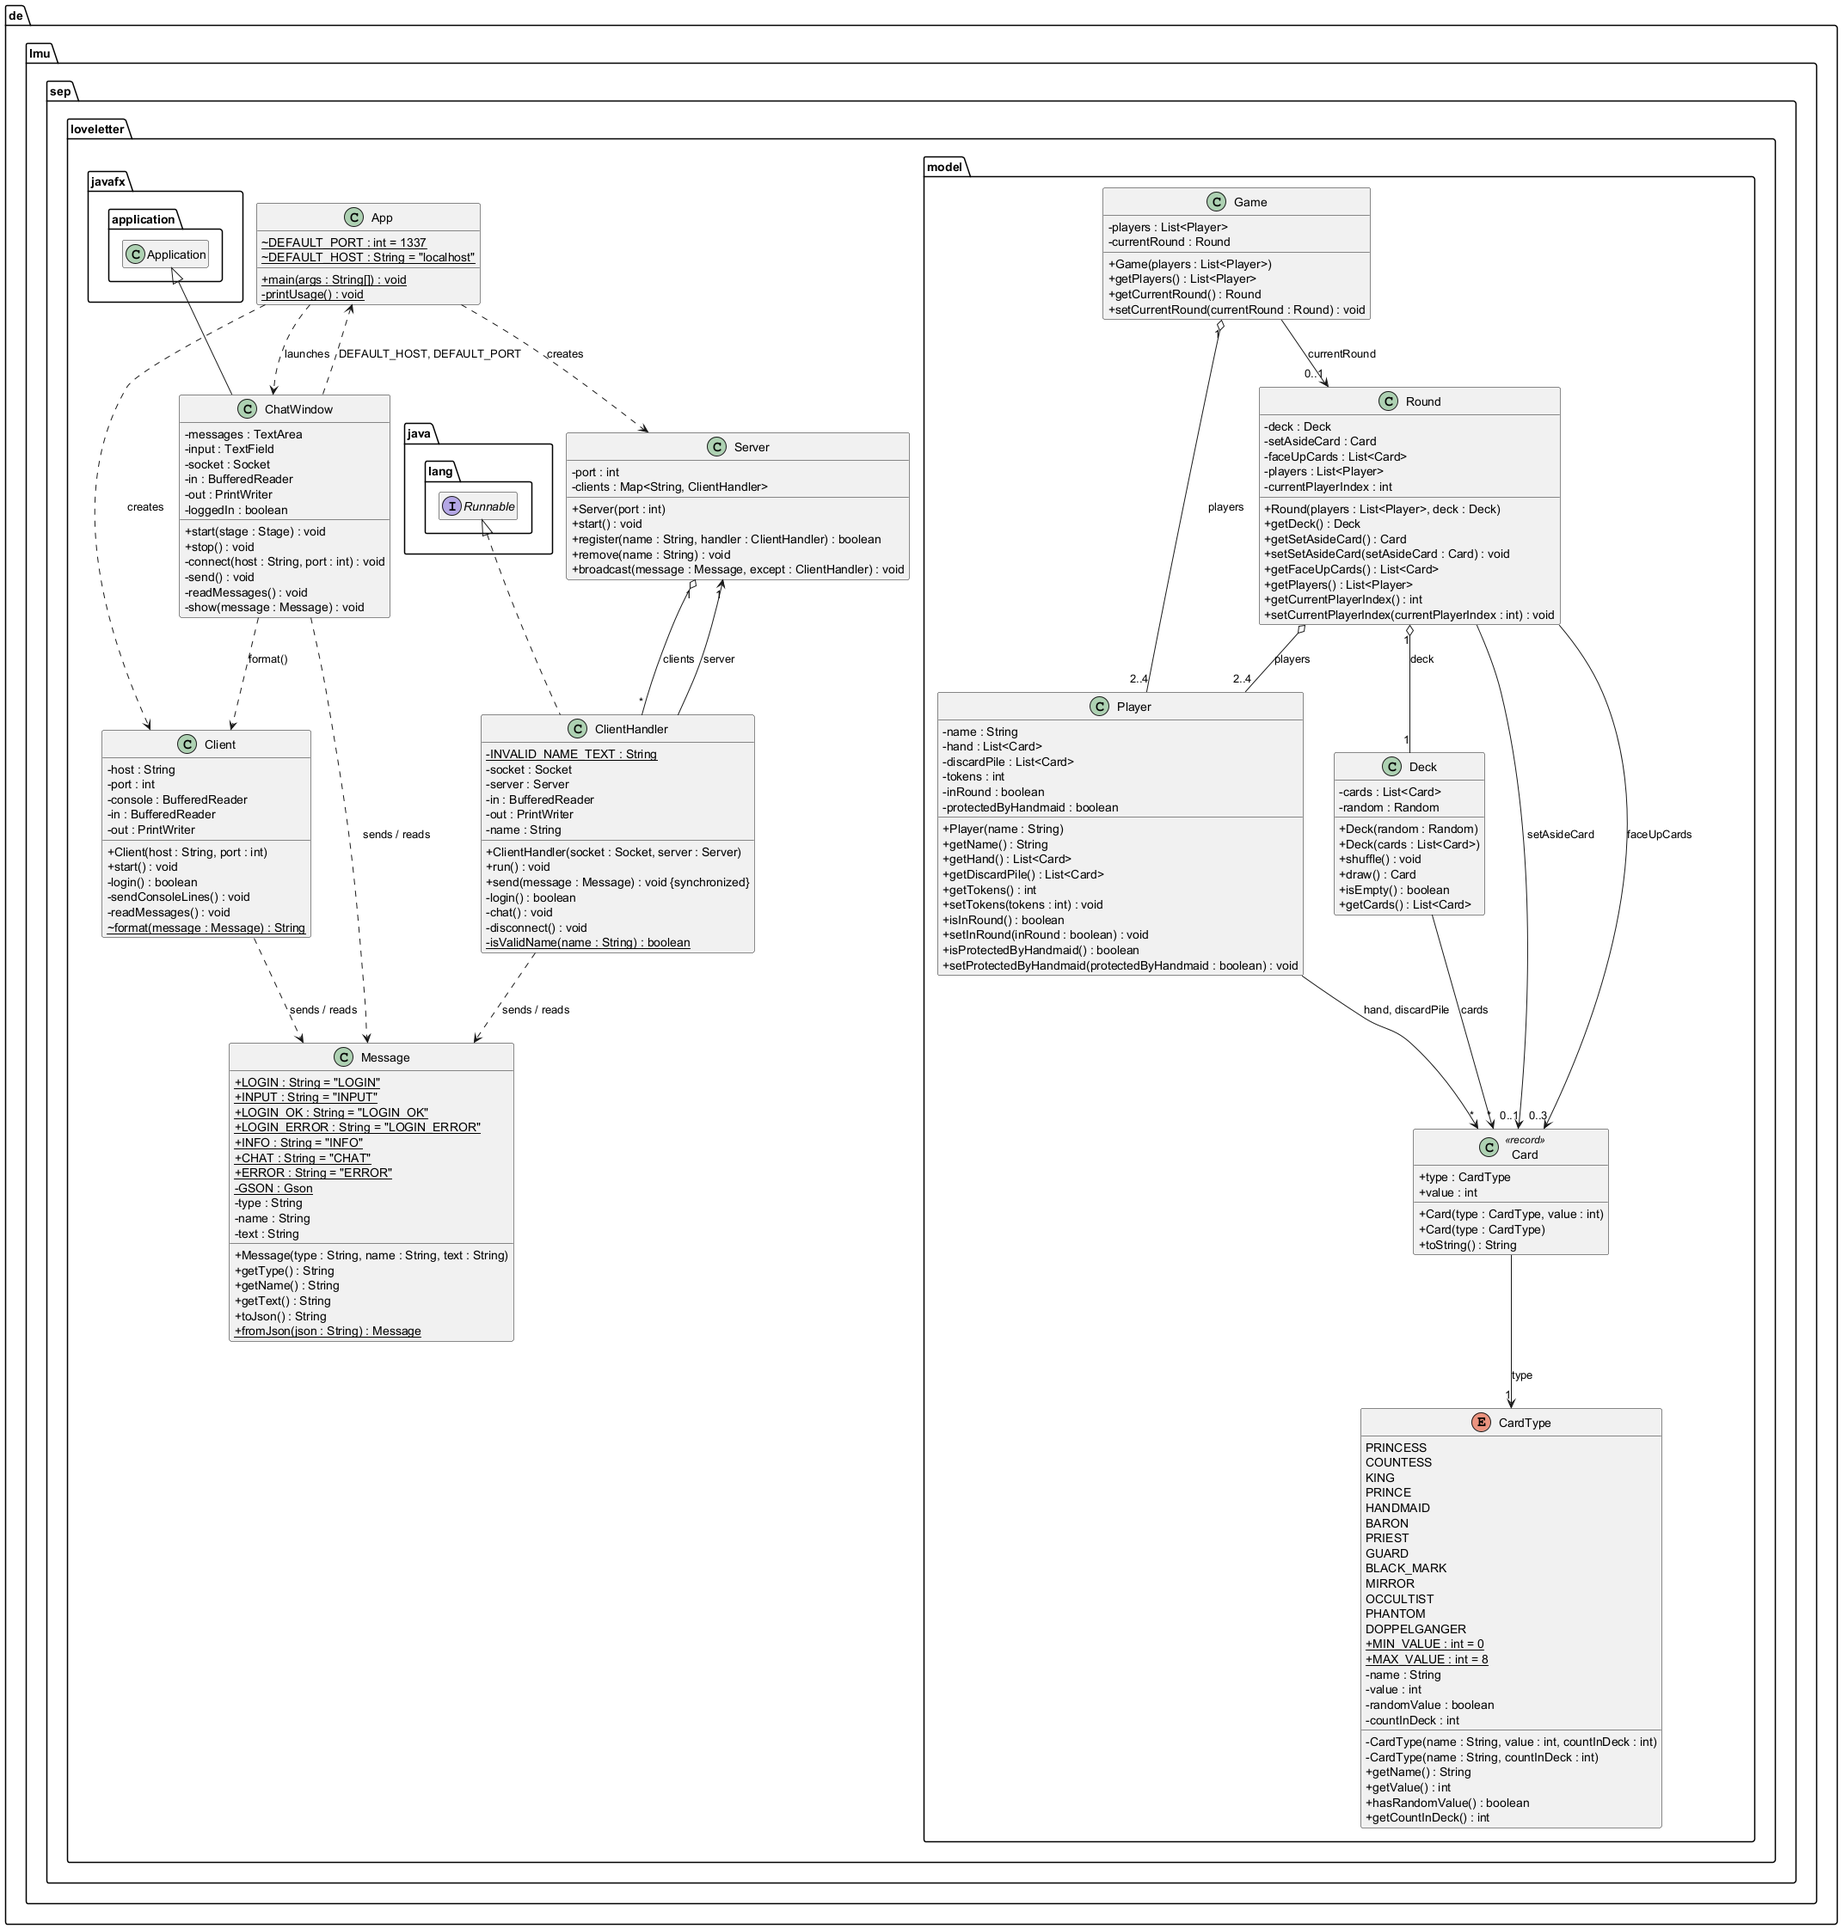
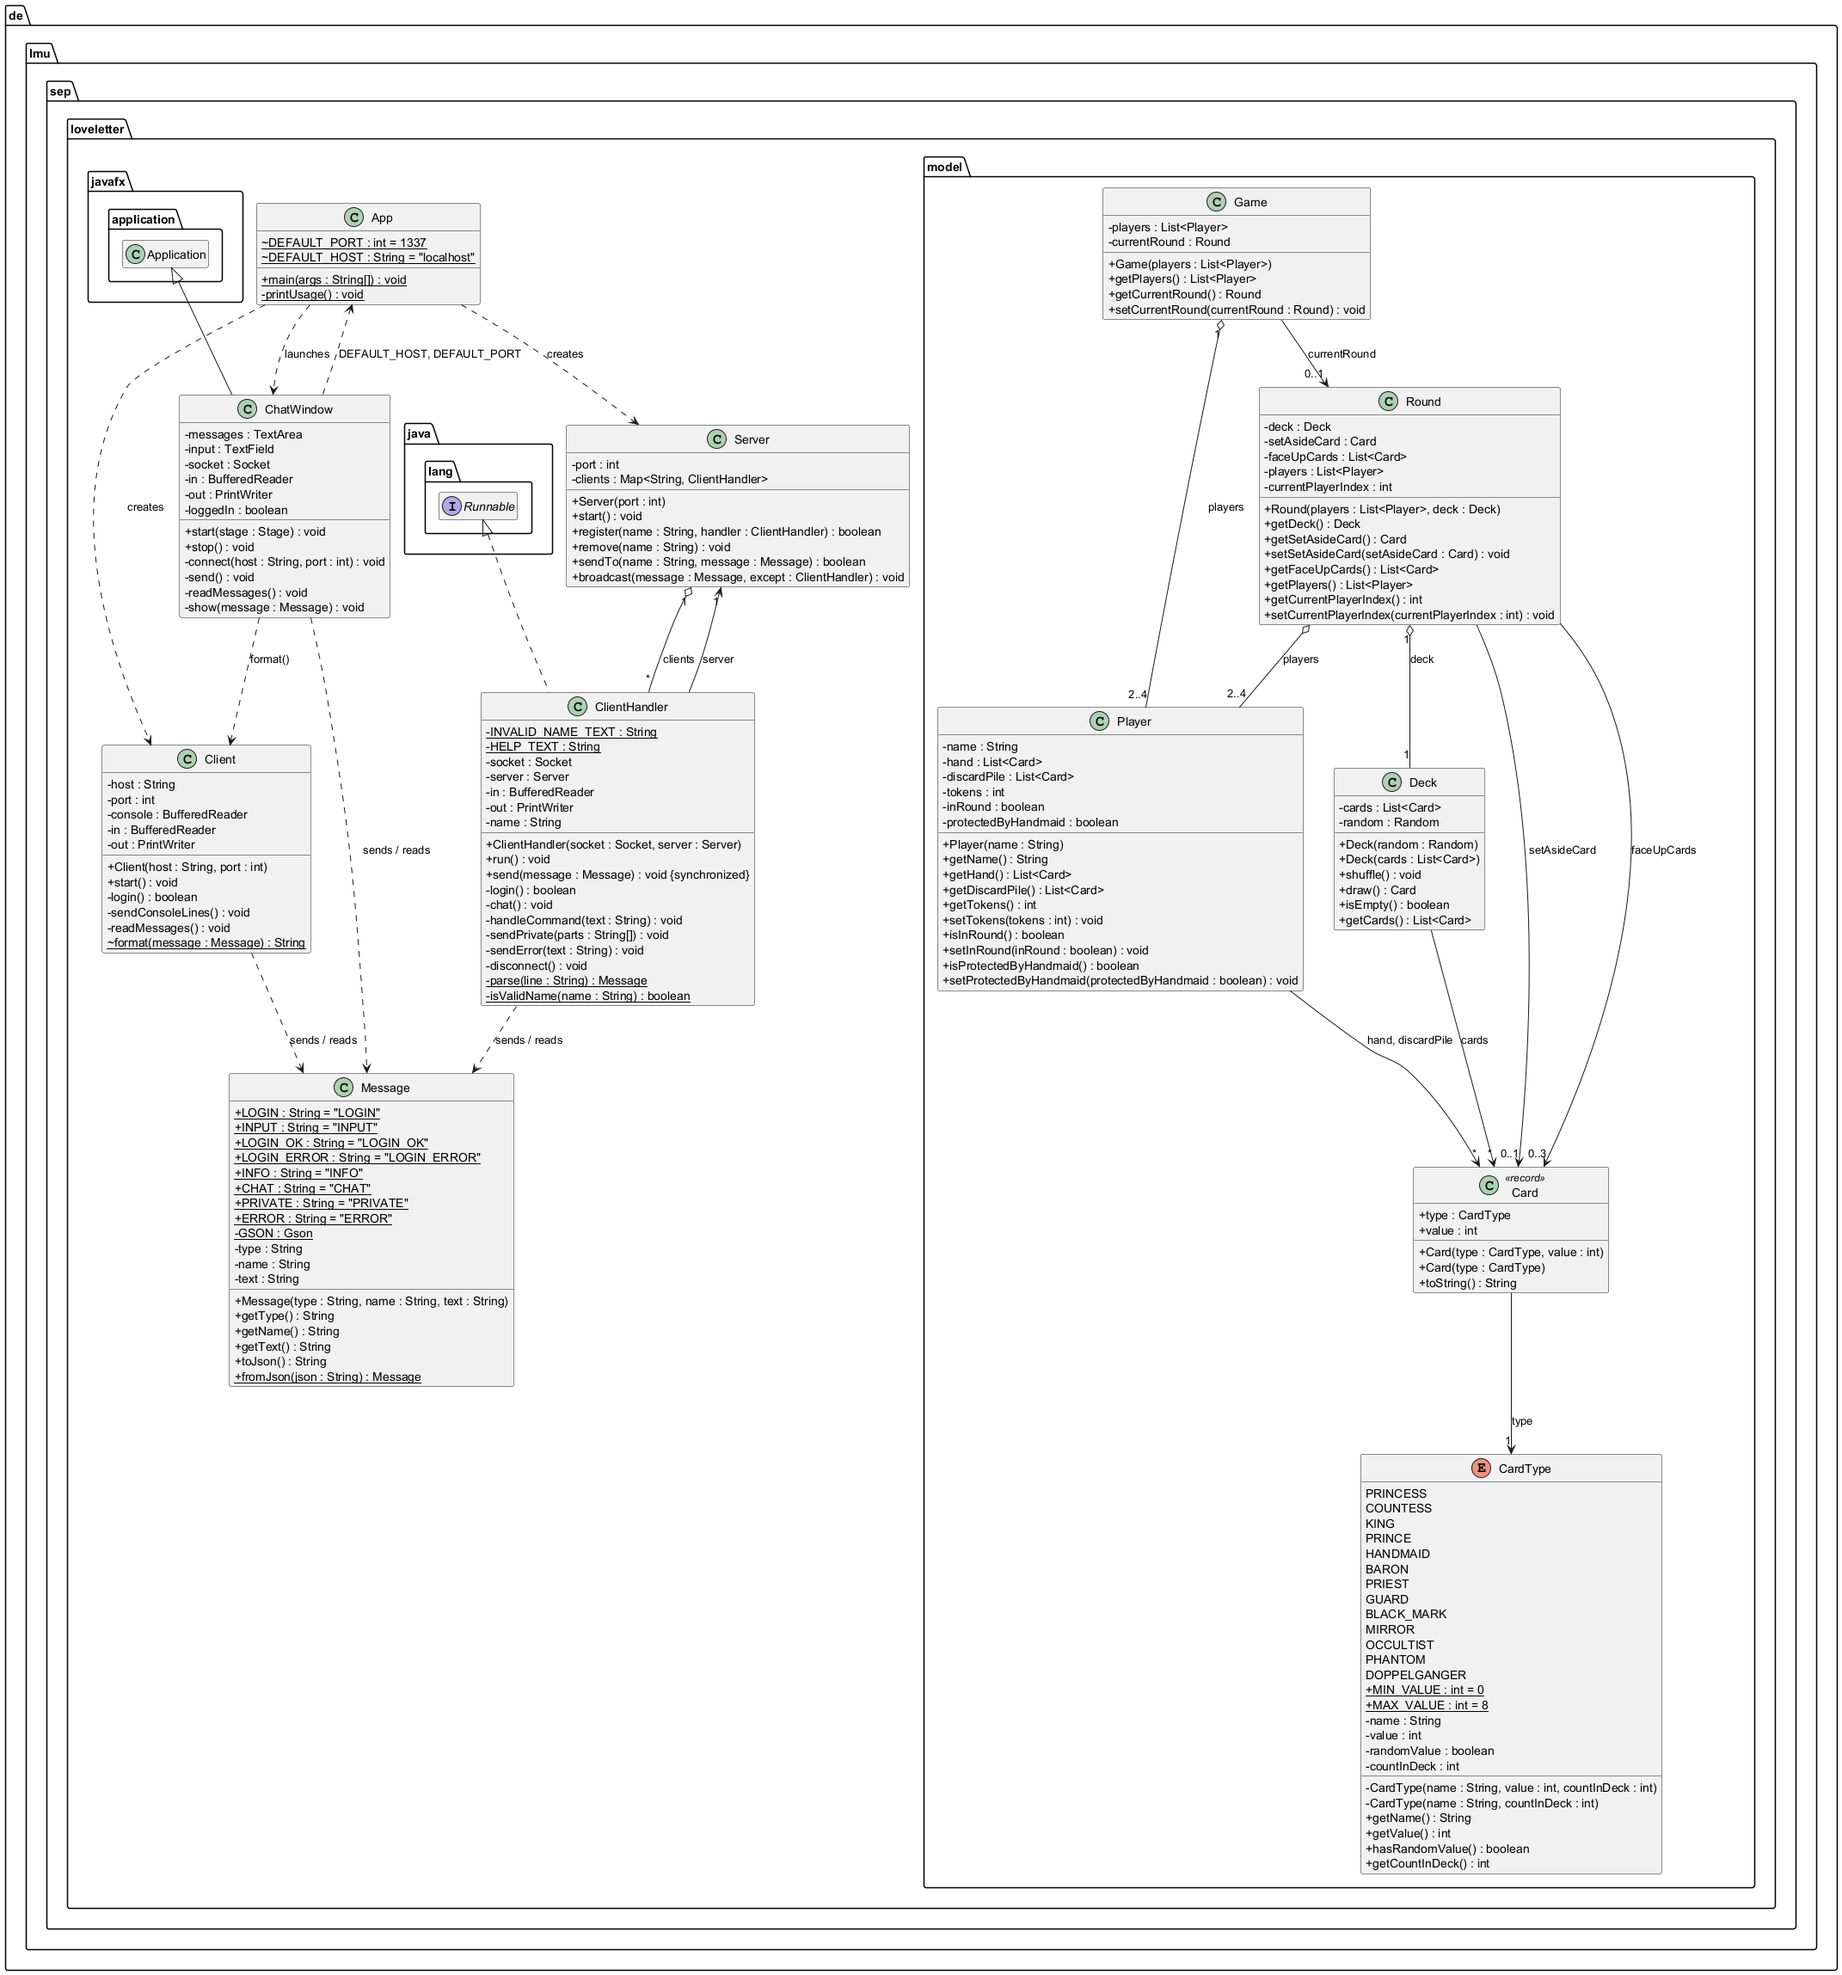
docs: document commands and PRIVATE message in README and UML

diff --git a/README.md b/README.md
@@ -48,8 +48,14 @@ java -jar target/loveletter-jar-with-dependencies.jar client
 java -jar target/loveletter-jar-with-dependencies.jar client localhost 4000
 ```
 
-The client asks for a name. After that, every line entered is sent to everyone.
-`bye` or `/bye` ends the connection.
+The client asks for a name. After that, every line entered is sent to everyone. Lines starting
+with `/` are commands:
+
+| Command              | Effect                                                     |
+|----------------------|------------------------------------------------------------|
+| `/msg <name> <text>` | private message: only `name` gets it, you get a confirmation |
+| `/help`              | lists all commands                                         |
+| `bye` or `/bye`      | ends the connection                                        |
 
 Chat window (JavaFX, default: `localhost`, port 1337):
 
@@ -135,9 +141,10 @@ fields that are not needed are omitted.
 | Client → Server | `INPUT`       | text       | one line entered                                |
 | Server → Client | `LOGIN_OK`    | –          | name accepted                                   |
 | Server → Client | `LOGIN_ERROR` | text       | name rejected, with reason                      |
-| Server → Client | `INFO`        | text       | `welcome name`, `name joined/left the room`     |
+| Server → Client | `INFO`        | text       | `welcome name`, `name joined/left the room`, `/help` list, confirmation of `/msg` |
 | Server → Client | `CHAT`        | name, text | chat line from `name`, to everyone incl. sender |
-| Server → Client | `ERROR`       | text       | unknown command, only to the sender             |
+| Server → Client | `PRIVATE`     | name, text | private message from `name`, only to the receiver |
+| Server → Client | `ERROR`       | text       | invalid input, unknown command or wrong arguments, only to the sender |
 
 Example:
 
@@ -150,6 +157,14 @@ Example:
 ```
 
 Flow: after `LOGIN_OK`, the new client gets `welcome name`, all others get `name joined the room`.
-Input without `/` goes to everyone as `CHAT`. `bye` and `/bye` end the connection; any other text
-starting with `/` results in `ERROR`. When a connection ends (via `bye` or by dropping), all others
-get `name left the room` and the name is free again.
+Input without `/` goes to everyone as `CHAT`. `bye` and `/bye` end the connection; other text
+starting with `/` is a command (see above), and an unknown one results in `ERROR`. A line that is
+not valid JSON, has no `text` or has another type than `INPUT` also results in `ERROR`; the
+connection stays open. When a connection ends (via `bye` or by dropping), all others get
+`name left the room` and the name is free again.
+
+```
+→ {"type":"INPUT","text":"/msg ben hi"}
+← {"type":"INFO","text":"private message sent to ben"}       (to anna)
+← {"type":"PRIVATE","name":"anna","text":"hi"}               (to ben only)
+```
